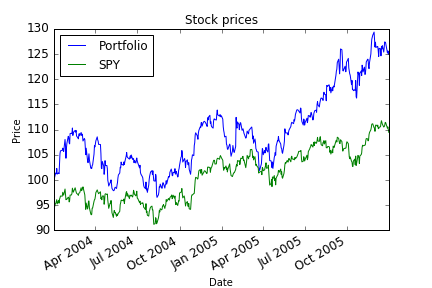
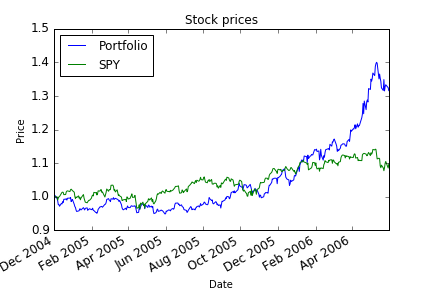
aa

diff --git a/mc1p2_optimize_portfolio/optimization.py b/mc1p2_optimize_portfolio/optimization.py
@@ -7,7 +7,7 @@ import datetime as dt
 from util import get_data, plot_data
 
 # This is the function that will be tested by the autograder
-# The student must update this code to properly implement the functionality
+# 11The student must update this code to properly implement the functionality
 def optimize_portfolio(sd=dt.datetime(2008,1,1), ed=dt.datetime(2009,1,1), \
     syms=['GOOG','AAPL','GLD','XOM'], gen_plot=False):
 
@@ -39,7 +39,8 @@ def optimize_portfolio(sd=dt.datetime(2008,1,1), ed=dt.datetime(2009,1,1), \
         cr = df.ix[-1, 'cumm'] - 1
         sddr = df.ix[1:, 'daily'].std()
         adr = df.ix[1:, 'daily'].mean()
-        return cr, adr, sddr, sr, df['cumm']*100
+        df_cumm = df['cumm']/df.ix[0,'cumm']
+        return cr, adr, sddr, sr, df_cumm
 
     def get_negative_sharpe(allocs,prices ):
         import math
@@ -79,6 +80,7 @@ def optimize_portfolio(sd=dt.datetime(2008,1,1), ed=dt.datetime(2009,1,1), \
     prices = prices_all[syms]  # only portfolio symbols
     prices_SPY = prices_all['SPY']  # only SPY, for comparison later
     allocs = min_sharpe(syms,prices,get_negative_sharpe)
+    prices_SPY = prices_SPY/prices_SPY.ix[0,:]
     cr, adr, sddr, sr ,df_cumm= assess_portfolio(sd = sd, ed = ed,syms = syms, allocs = allocs)
 
     # Get daily portfolio value
